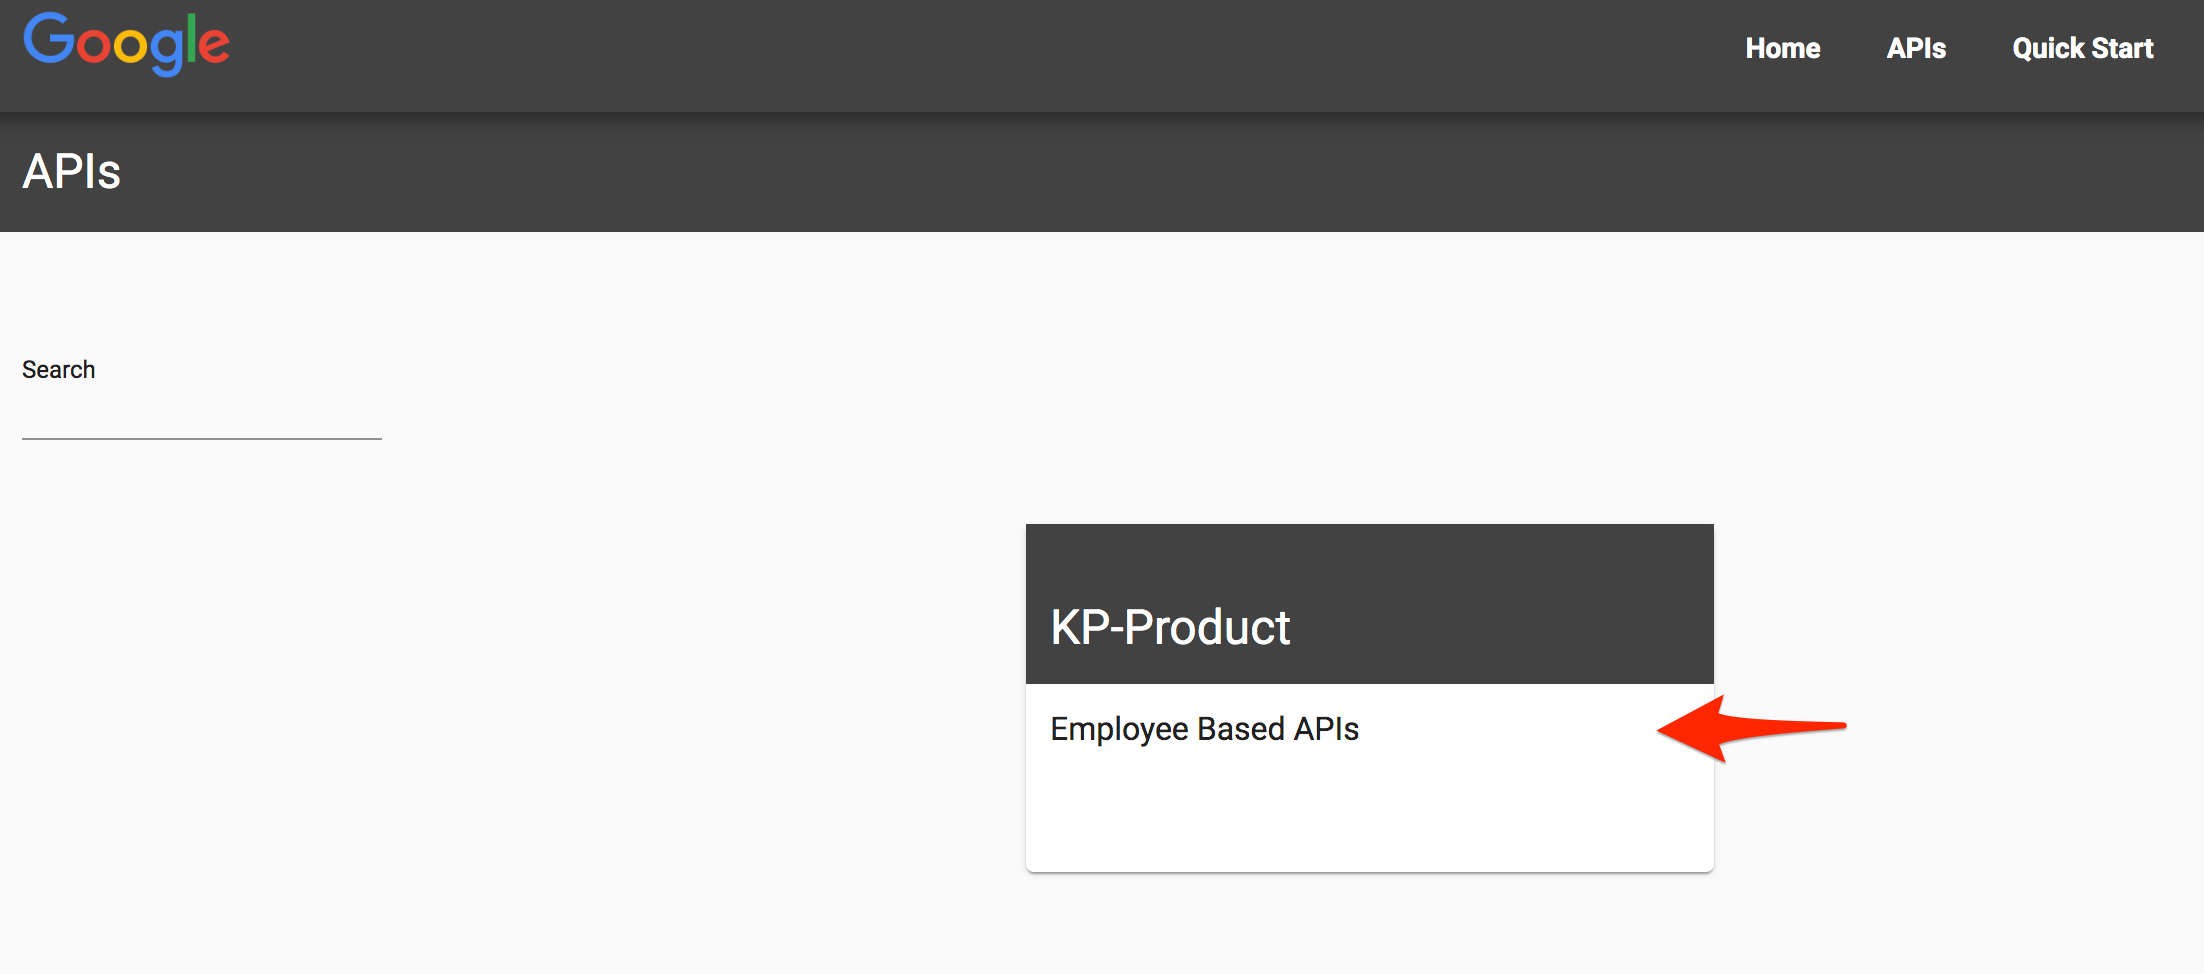
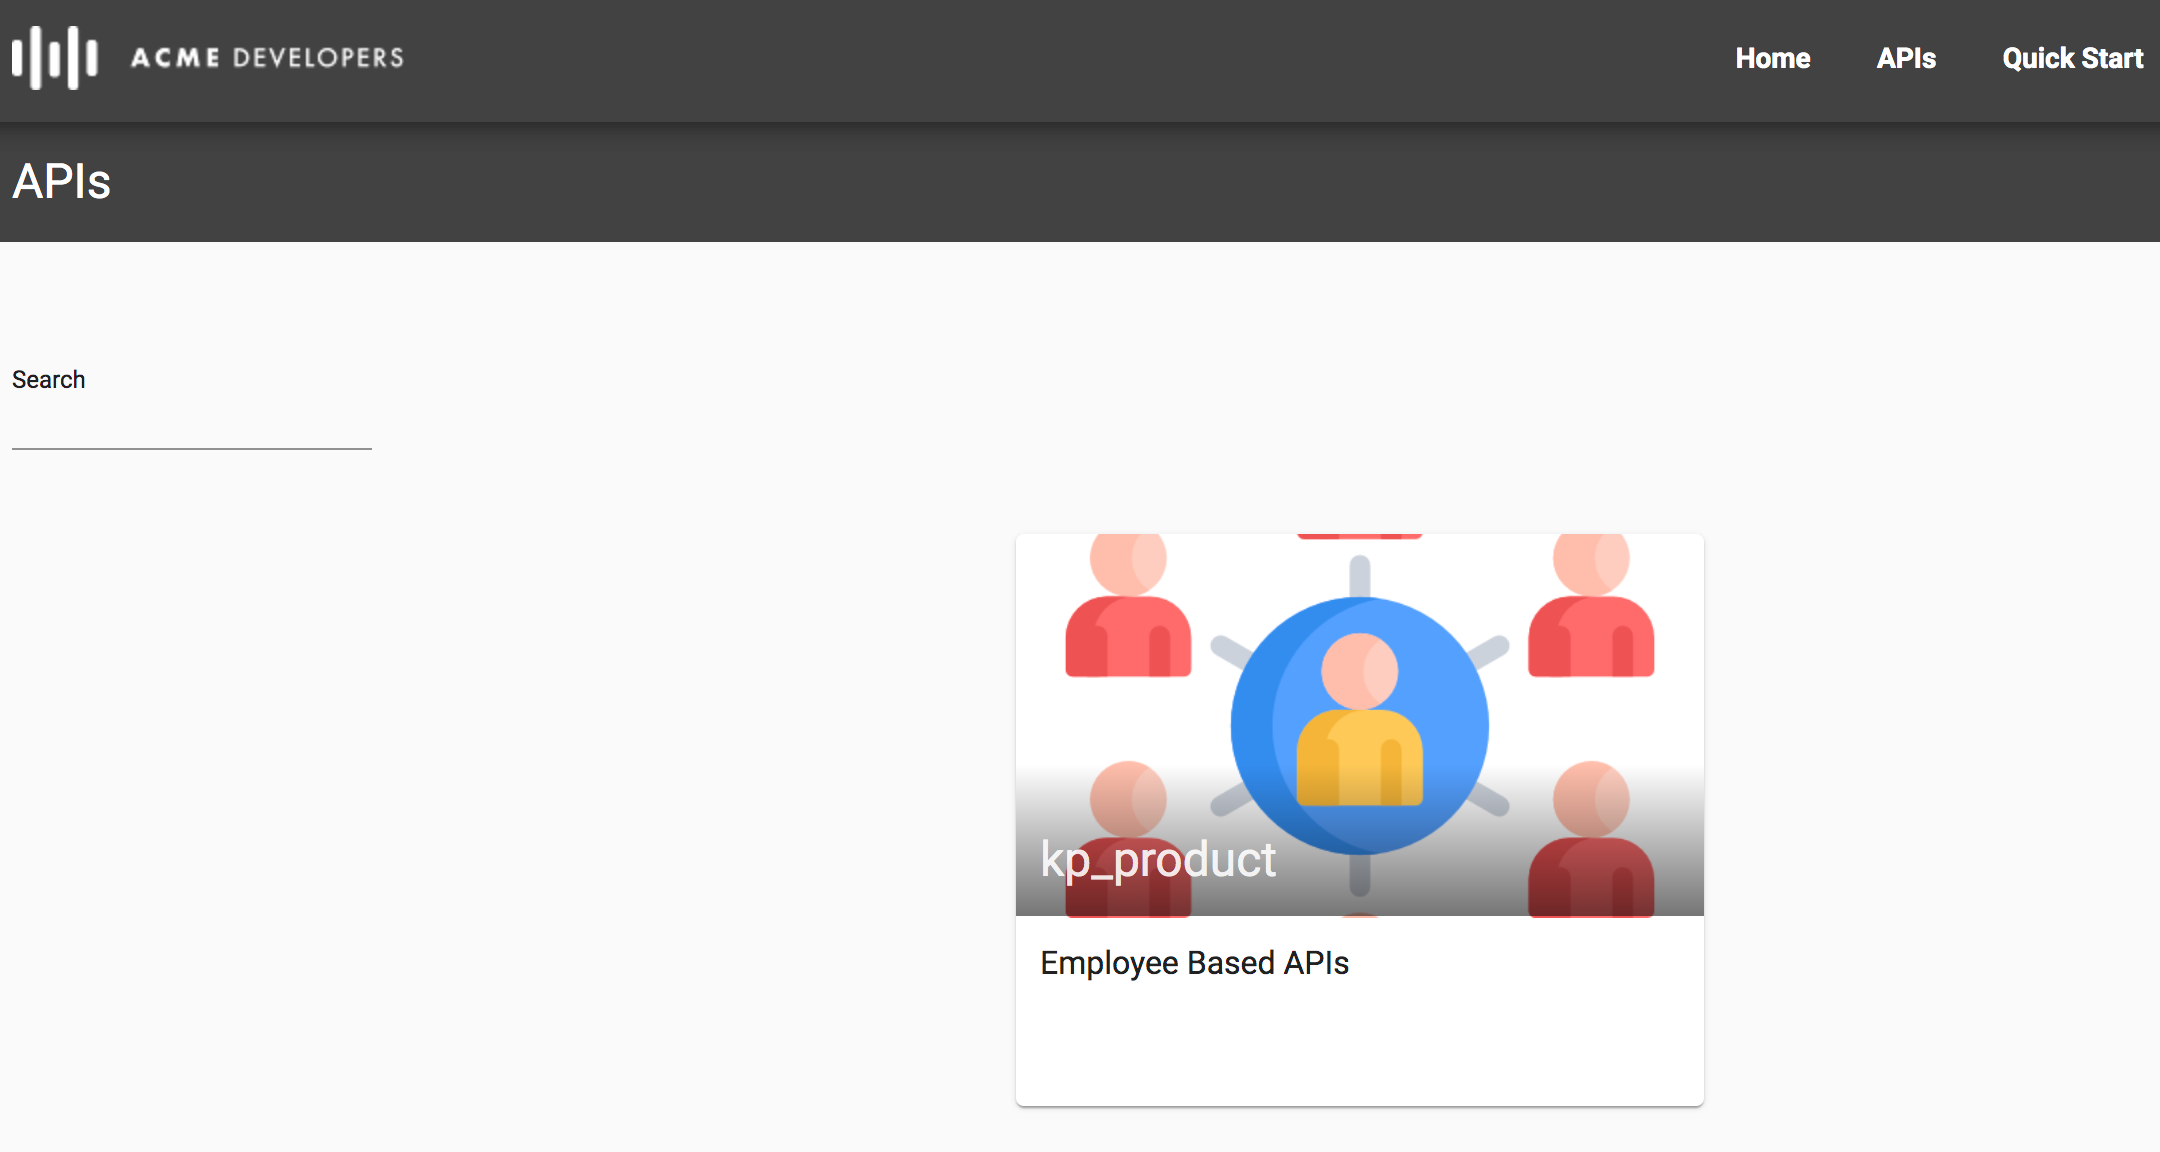
update screenshots

diff --git a/Labs/Core/Lab 8 API Analytics - Custom Reports/README.md b/Labs/Core/Lab 8 API Analytics - Custom Reports/README.md
@@ -40,7 +40,11 @@ In this lab, you will create a custom report to provide insight into the consump
 
 ![image alt text](./media/image_1.png)
 
-2. Enter the **Report Name** and **Report Description**.
+2. Enter some **Report Name** and **Report Description**.
+
+* **Report Name**: **{your_initials}_Traffic By Proxy Request Path**
+
+* **Report Description**: Custom report to show the sum of traffic by proxy and request path
 
 ![image alt text](./media/image_2.png)
 
@@ -66,17 +70,7 @@ In this lab, you will create a custom report to provide insight into the consump
 
 ![image alt text](./media/image_7.png)
 
-9. You can further narrow the data displayed by adding filters to your report definition. 
-In the **Filter** section of the page, click **+Filter Condition**. 
-Select **Proxy** as the entity you want to filter on, select **=** as the **Operator** and set the **Value** to your API Proxy name (e.g. "ap_employees").
-
-![image alt text](./media/image_8.png)
-
-10. Click on the check button under Actions to save this filter.
-
-![image alt text](./media/image_9.png)
-
-11. Click **Save**. 
+9. Click **Save**. 
 
 *Note: Data delay interval - After API calls are made to proxies, it takes about **10-15 minutes** for the data to appear in dashboards, custom reports, and management API calls.*
 

diff --git a/Labs/Core/Lab 4 API Security - Securing APIs with API Keys/README.md b/Labs/Core/Lab 4 API Security - Securing APIs with API Keys/README.md
@@ -138,13 +138,15 @@ An App Developer can create any number of Apps.  Each App can register for any n
 
 3. Populate the following fields
 
-    * Name: **{your_initials}_app**
+    * **App Details** Section
+    
+        * Name: **{your_initials}_app**
 
-    * Display Name: **{your_initials}_app**
+        * Display Name: **{your_initials}_app**
 
-    * Developer: Select the **developer** radio button then select the developer you created from the pulldown
+        * Developer: Select the **developer** radio button then select the developer you created from the pulldown
 
-    * Credentials: Click **Add a credential**
+    * **Credentials** Section
 
         * Expiry: **Never**
 

diff --git a/Labs/Core/Lab 6 API Publishing - Documentation/README.md b/Labs/Core/Lab 6 API Publishing - Documentation/README.md
@@ -74,6 +74,18 @@ For this lab, you will need…
 
 ![image alt text](./media/image_7.png)
 
+6. **[Optional]** Add an image by clicking **Select** 
+
+* Choose **External Image** from the dropdown
+
+* Copy / paste in the following image url: [https://storage.googleapis.com/temp_cust_assets/employees.png](https://storage.googleapis.com/temp_cust_assets/employees.png)
+
+* Click **Add**
+
+![image alt text](./media/image_7a.png)
+
+![image alt text](./media/image_7b.png)
+
 6. Review selections and click **Finish** to publish the API product (and OpenAPI Specification Snapshot) to the Developer Portal
 
 ![image alt text](./media/image_8.png)

diff --git a/Labs/Core/Lab 5 Traffic Management - Rate Limit APIs/README.md b/Labs/Core/Lab 5 Traffic Management - Rate Limit APIs/README.md
@@ -46,7 +46,7 @@ Note: As you will have already completed the *API Security - Securing APIs with 
 
     ![image alt text](./media/image_0.png)
 
-5. Create 2 new API Products that include this proxy, ‘**{your_initials}_Employees Bronze Product**’ and ‘**{your_initials}_Employees Platinum Product**’
+5. Create 2 new API Products that include this proxy, ‘**{your_initials}_Employees_Bronze_Product**’ and ‘**{your_initials}_Employees_Platinum_Product**’
 
     For both products specify as before:
 
